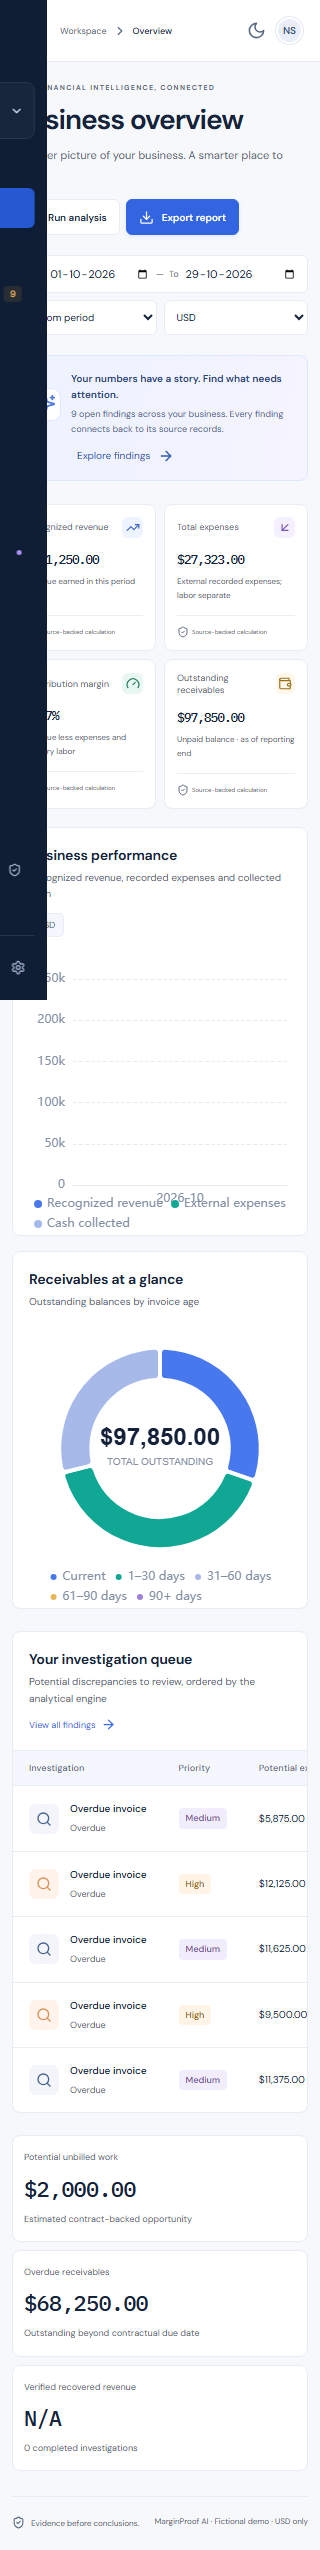
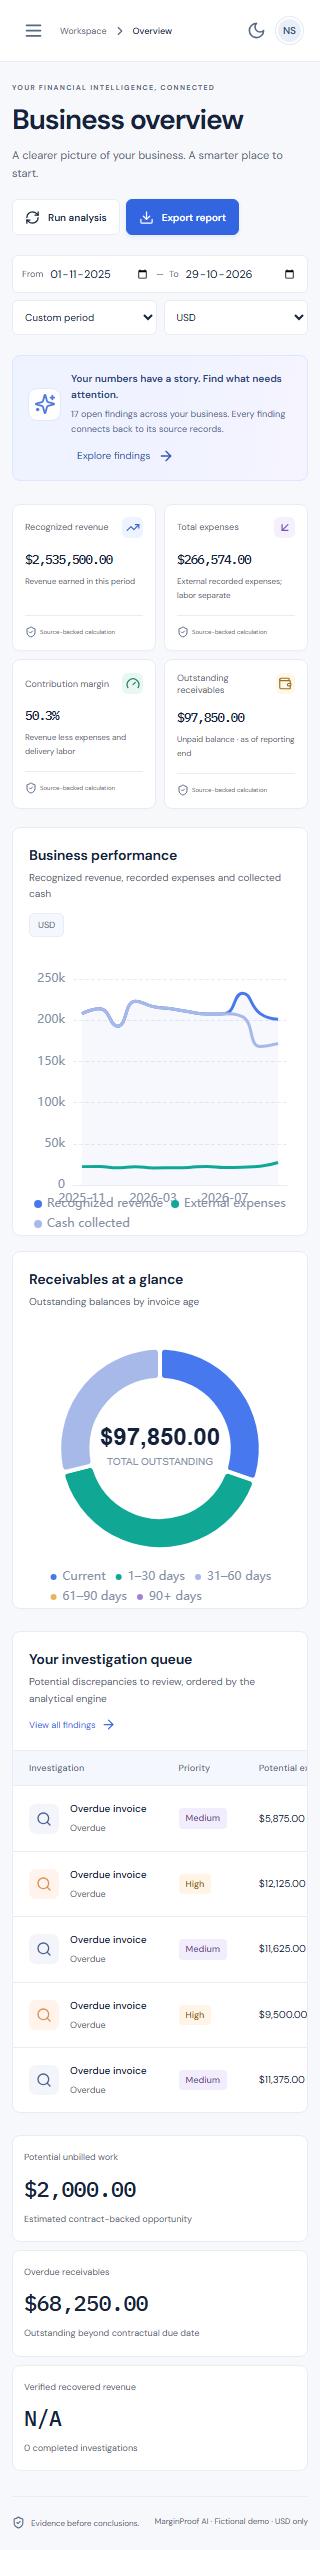
Fix notification timing and single-period chart rendering

Changed region(s): [[0.0, 0.0, 0.1562, 0.4027], [0.7188, 0.3718, 0.7812, 0.4027], [0.375, 0.3718, 0.4062, 0.4027]]

diff --git a/qa/tests/workflows.spec.ts b/qa/tests/workflows.spec.ts
@@ -20,15 +20,13 @@ test("demo import, evidence, investigation, action, scenario, analyst and export
     .click();
   await page.getByLabel("Dataset type").selectOption("clients");
   const sourceId = `BROWSER-${Date.now()}`;
-  await page
-    .getByLabel("Upload CSV or XLSX")
-    .setInputFiles({
-      name: "browser-client.csv",
-      mimeType: "text/csv",
-      buffer: Buffer.from(
-        `Customer ID,Customer Name,Currency\n${sourceId},Browser Fictional Client,USD\n`,
-      ),
-    });
+  await page.getByLabel("Upload CSV or XLSX").setInputFiles({
+    name: "browser-client.csv",
+    mimeType: "text/csv",
+    buffer: Buffer.from(
+      `Customer ID,Customer Name,Currency\n${sourceId},Browser Fictional Client,USD\n`,
+    ),
+  });
   await expect(
     page.getByText("Map source columns", { exact: true }),
   ).toBeVisible();
@@ -173,6 +171,13 @@ test("filters, empty currency, offline recovery, keyboard and responsive layouts
   await page.getByRole("button", { name: "Switch to light theme" }).click();
   for (const width of [320, 768, 1440]) {
     await page.setViewportSize({ width, height: 1000 });
+    // Wait for responsive layout and chart ResizeObservers, not a fixed delay.
+    await page.evaluate(
+      () =>
+        new Promise<void>((resolve) =>
+          requestAnimationFrame(() => requestAnimationFrame(() => resolve())),
+        ),
+    );
     await expect(
       page.getByRole("heading", { name: "Business overview", exact: true }),
     ).toBeVisible();
@@ -185,6 +190,7 @@ test("filters, empty currency, offline recovery, keyboard and responsive layouts
       await page.screenshot({
         path: "../docs/overview-mobile.png",
         fullPage: true,
+        animations: "disabled",
       });
       await page.getByRole("button", { name: "Open navigation" }).click();
       await page

diff --git a/apps/web/src/App.tsx b/apps/web/src/App.tsx
@@ -1,4 +1,4 @@
-import { useEffect, useState } from "react";
+import { useEffect, useRef, useState } from "react";
 import { useQuery, useQueryClient } from "@tanstack/react-query";
 import {
   Activity,
@@ -166,6 +166,9 @@ export default function App() {
     () => localStorage.getItem("mp-end") || "2026-10-29",
   );
   const [toast, setToast] = useState("");
+  const toastTimer = useRef<ReturnType<typeof setTimeout> | undefined>(
+    undefined,
+  );
   const [selected, setSelected] = useState<Finding | null>(null);
   const [source, setSource] = useState<any>(null);
   const [busy, setBusy] = useState(false);
@@ -185,9 +188,11 @@ export default function App() {
   const d = dashboard.data;
   const fmt = (v: unknown) => money(v, currency);
   const alert = (s: string) => {
+    if (toastTimer.current !== undefined) clearTimeout(toastTimer.current);
     setToast(s);
-    setTimeout(() => setToast(""), 5000);
+    toastTimer.current = setTimeout(() => setToast(""), 5000);
   };
+  useEffect(() => () => clearTimeout(toastTimer.current), []);
   const mutate = async (path: string, body?: any, method = "POST") => {
     try {
       setBusy(true);
@@ -298,7 +303,8 @@ export default function App() {
       name: names[i],
       type: "line" as const,
       smooth: true,
-      symbol: "none",
+      symbol: trend.length === 1 ? "circle" : "none",
+      symbolSize: 7,
       lineStyle: { width: 3 },
       areaStyle: i === 0 ? { color: "rgba(71,120,238,.07)" } : undefined,
       data: trend.map((t: any) => (t[key] === null ? null : Number(t[key]))),

diff --git a/qa/playwright.config.ts b/qa/playwright.config.ts
@@ -8,6 +8,7 @@ export default defineConfig({
     baseURL: "http://127.0.0.1:5173",
     trace: "retain-on-failure",
     screenshot: "only-on-failure",
+    reducedMotion: "reduce",
   },
   reporter: [["list"], ["html", { open: "never" }]],
 });

diff --git a/docs/VERIFICATION.md b/docs/VERIFICATION.md
@@ -2,6 +2,8 @@
 
 This is evidence for the local MVP, not a production-readiness assessment.
 
+The complete workflow also passed on a fresh Ubuntu GitHub Actions runner: [verified run](https://github.com/saifmodan2006/MarginProofAI/actions/runs/40852566409). The workflow installs locked dependencies, tests the API and financial engine, builds the frontend, audits npm packages, starts both services, and runs Chromium workflows/accessibility checks.
+
 | Check | Result |
 | --- | --- |
 | Python analytics and isolated API integration suite | 57 passed |
